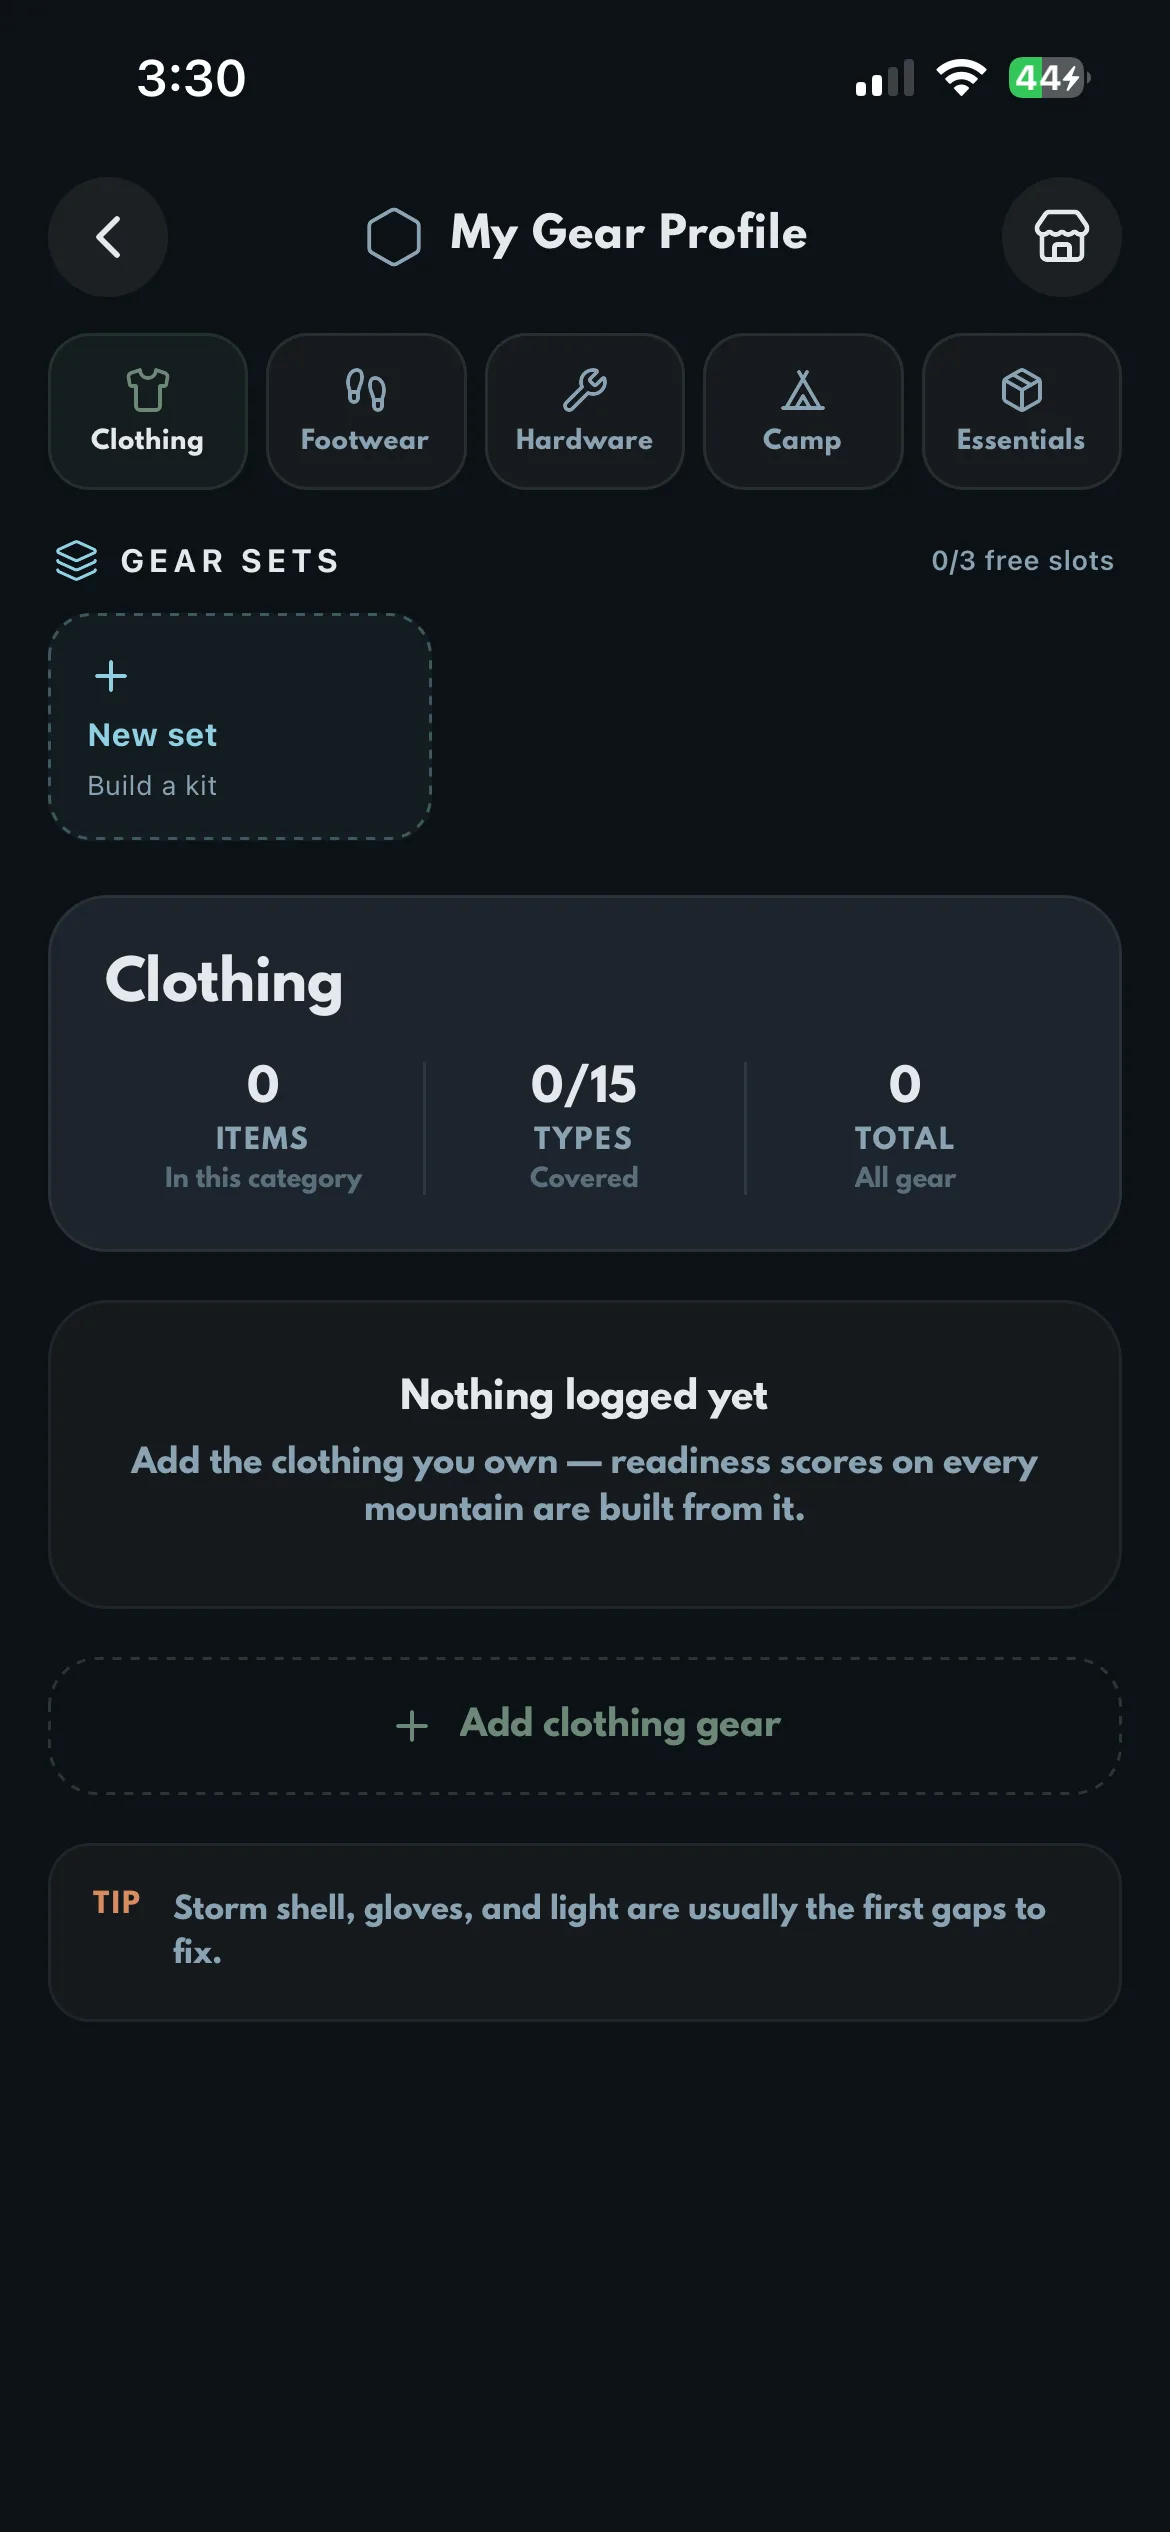
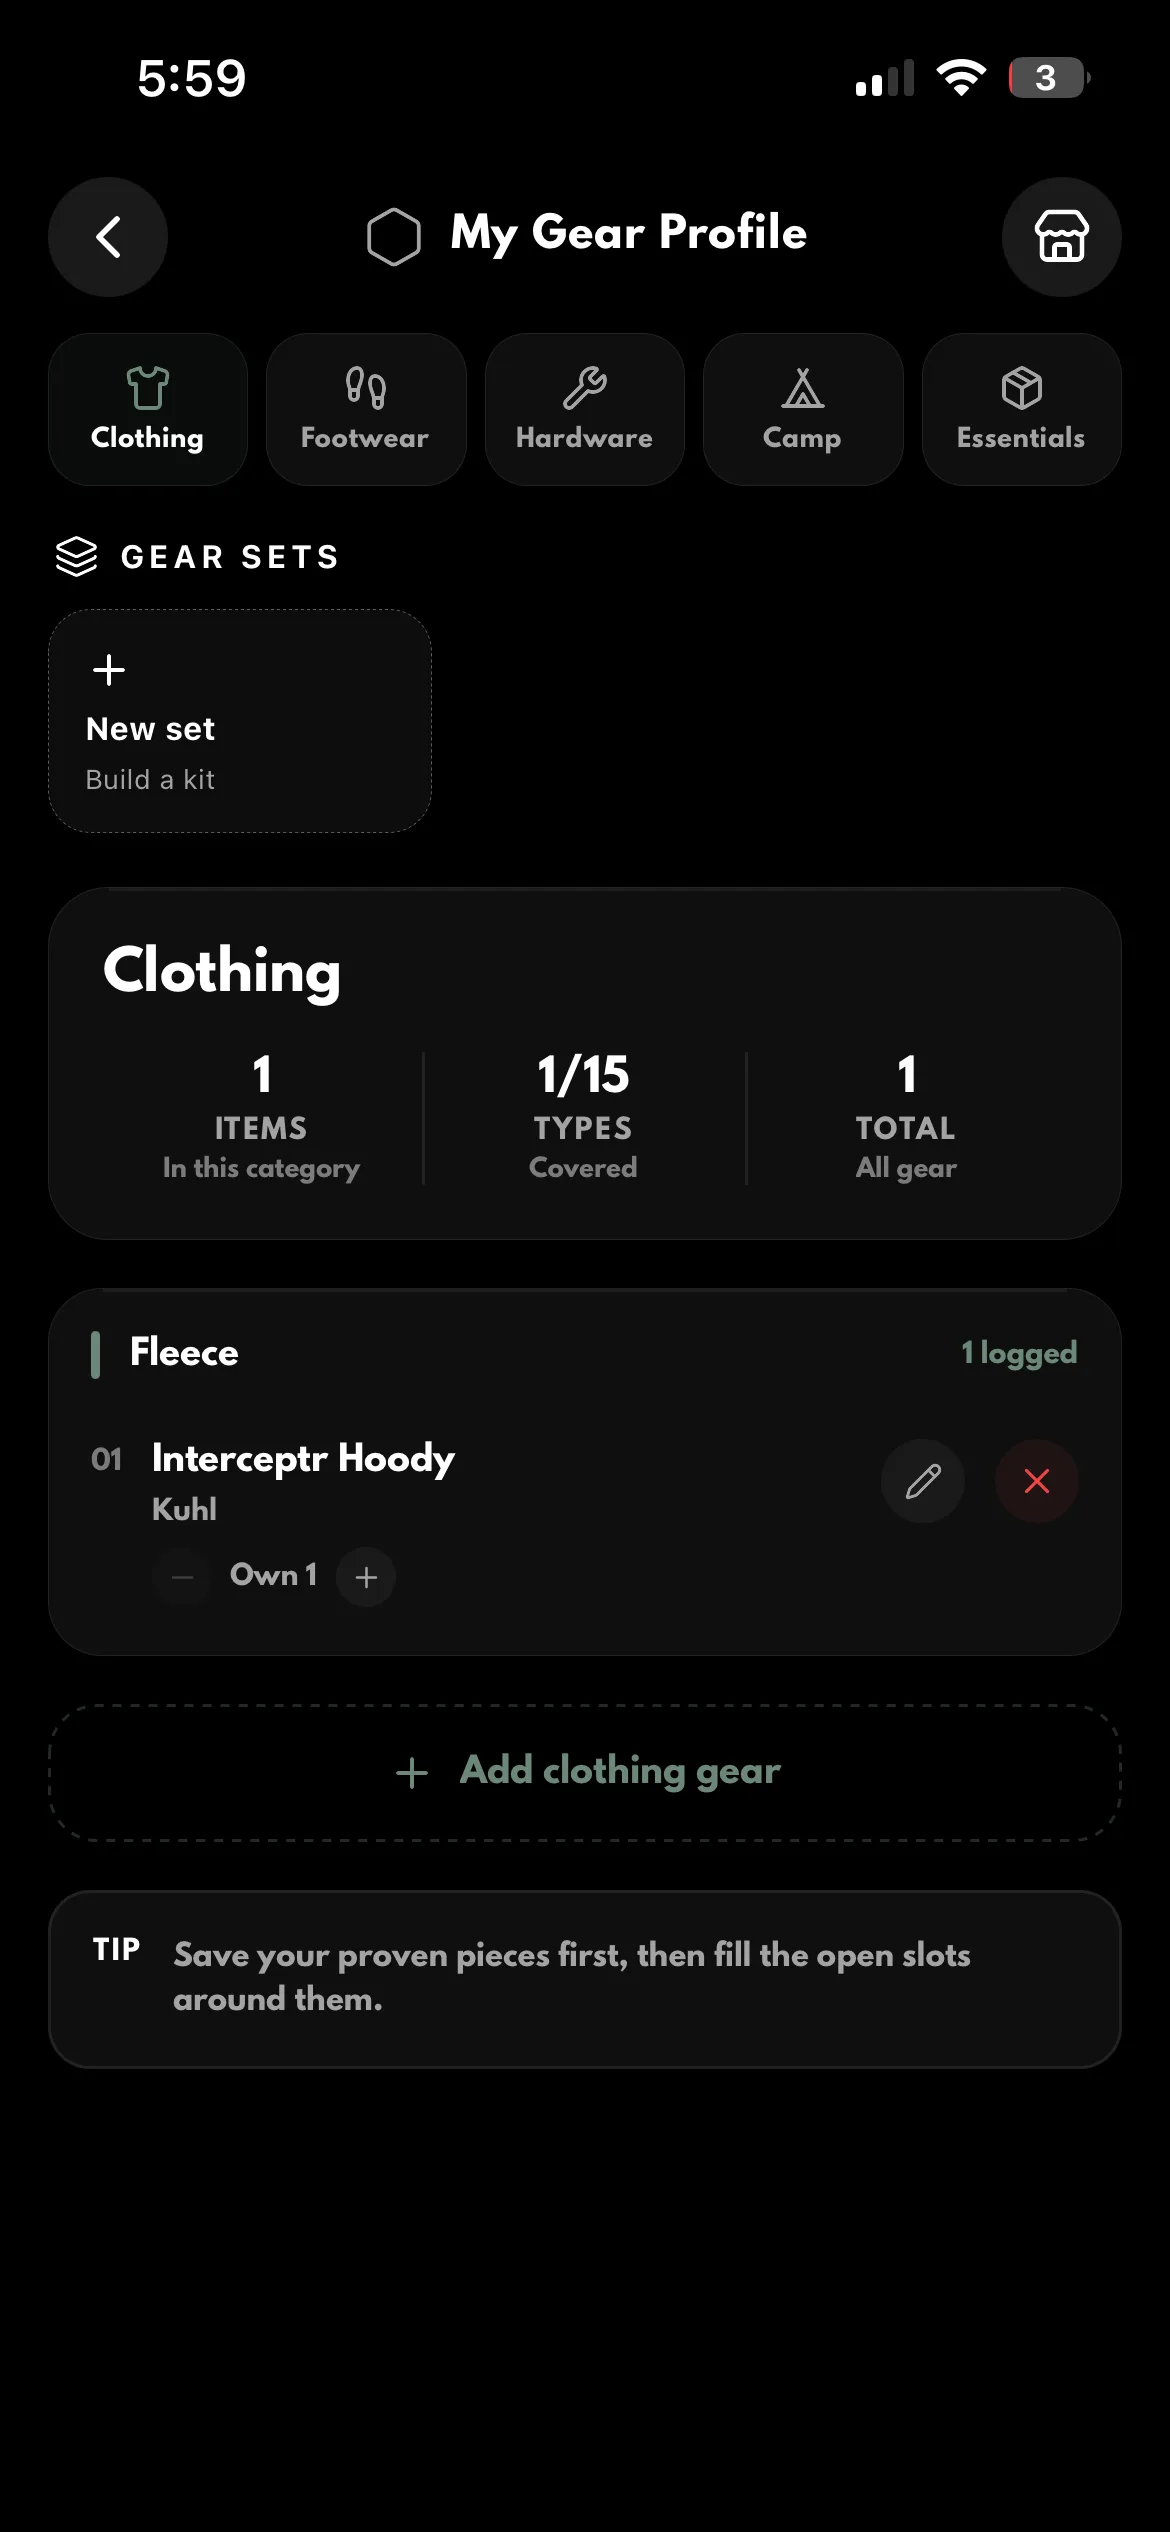
Walkthrough: new app screens, step 3 becomes Gear Vault
Claude-Session: https://claude.ai/code/session_01FpxSoPQp1EAiv7MMENXKGu

diff --git a/src/components/home/Walkthrough.jsx b/src/components/home/Walkthrough.jsx
@@ -30,13 +30,13 @@ const STEPS = [
     title: 'Summit Search',
     text: 'In depth info for your summit of interest and its corresponding gear.',
     image: summitIntel,
-    alt: 'EIGER app, summit details for Mount Whitney with its recommended gear',
+    alt: 'EIGER app, summit details for Mont Blanc with its recommended gear',
   },
   {
-    title: 'Compatibility Bar',
-    text: 'Know how prepared you are, before any and every hike.',
+    title: 'Gear Vault',
+    text: 'Store the gear you own in your vault. This feeds directly into our compatibility algorithms.',
     image: gearVault,
-    alt: 'EIGER app, My Gear Profile screen',
+    alt: 'EIGER app, My Gear Profile screen with a logged fleece',
   },
 ];
 

diff --git a/docs/COPY.md b/docs/COPY.md
@@ -22,7 +22,7 @@ Source of truth for every string on the redesigned site. Muad's words, with the 
 - Heading: A look inside our app
 - Step 1, Your control panel: Access to all app features at a touch.
 - Step 2, Summit Search: In depth info for your summit of interest and its corresponding gear.
-- Step 3, Compatibility Bar: Know how prepared you are, before any and every hike.
+- Step 3, Gear Vault: Store the gear you own in your vault. This feeds directly into our compatibility algorithms. (screens updated 2026-09-25: Mission Control with Mount Elbert winter kit, Mont Blanc summit search, My Gear Profile)
 - Proof line (count up once on entry, values baked at build, dated): 97 Mountains · 3,392 Products · 3,560 Mapped gear slots
 
 ### Try it yourself! (drag-and-drop demo, sits directly under the walkthrough)
